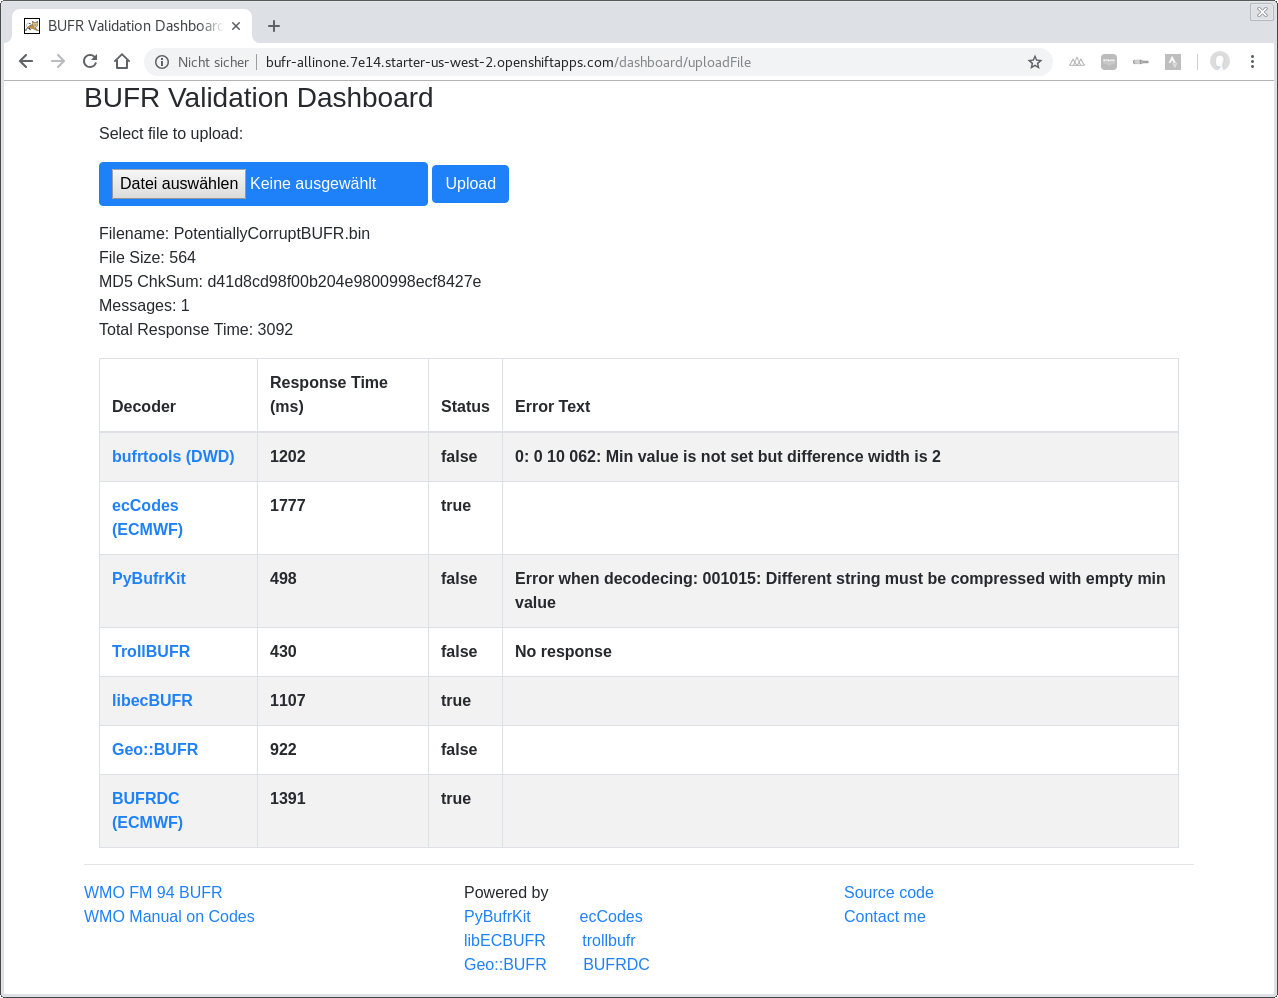
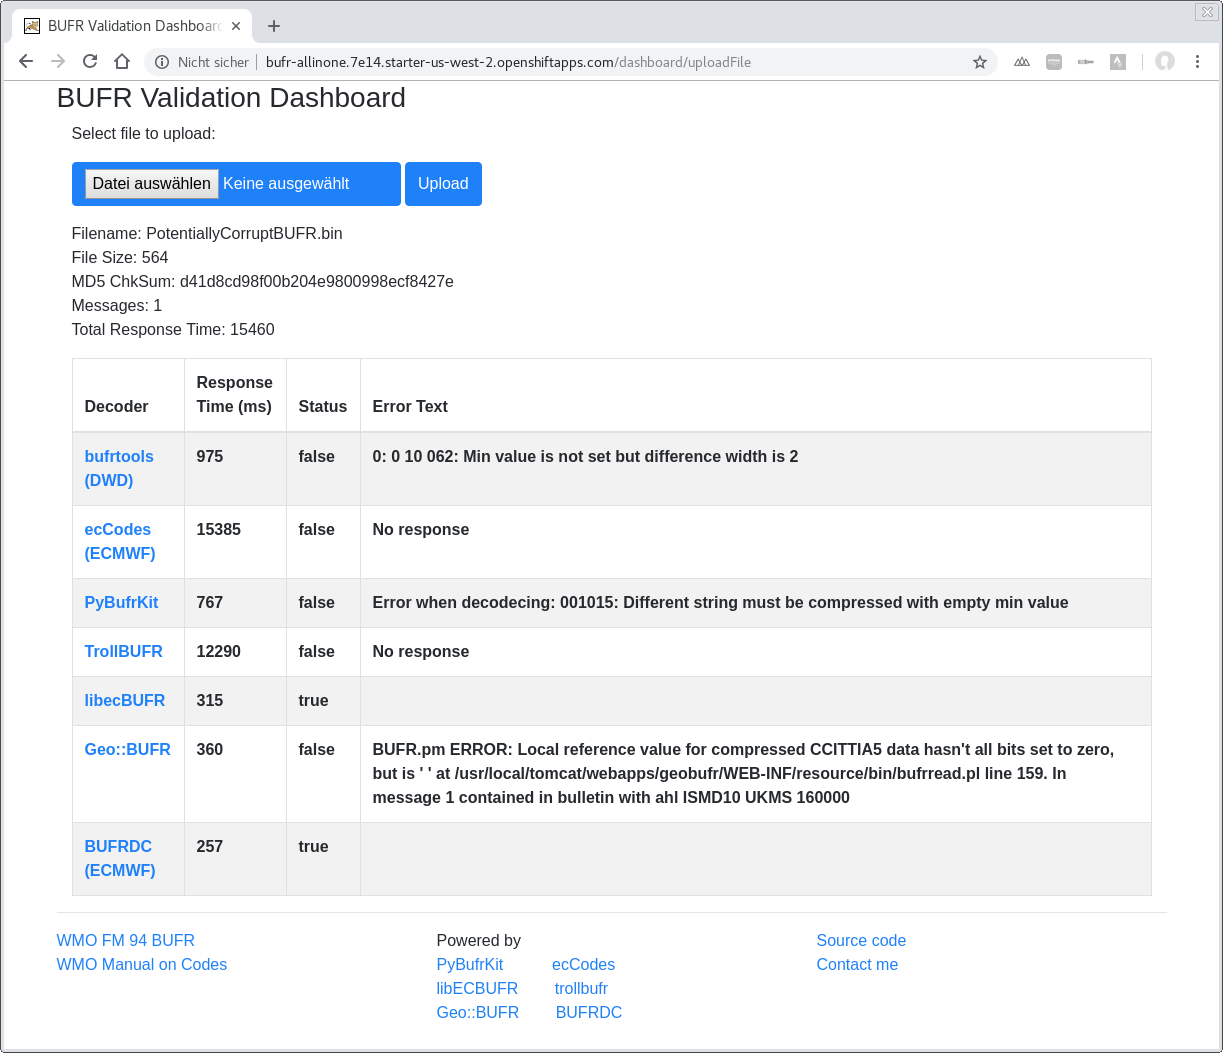
Timeout handling added

diff --git a/Servlet-Version/src/PostRequestWork.java b/Servlet-Version/src/PostRequestWork.java
@@ -20,6 +20,11 @@ import org.apache.http.impl.client.CloseableHttpClient;
 import org.apache.http.impl.client.HttpClients;
 import org.apache.http.util.EntityUtils;
 import org.apache.http.HttpHost;
+
+import org.apache.http.client.methods.HttpRequestBase;
+import org.apache.http.client.config.RequestConfig;
+import org.apache.http.client.config.RequestConfig.Builder;
+
 import org.apache.http.impl.conn.DefaultProxyRoutePlanner;
 
 
@@ -31,6 +36,7 @@ public class PostRequestWork implements Callable<String> {
     private File file;
     private final DefaultProxyRoutePlanner routePlanner;
     private long responseTime = -1;
+    public static final int TIMEOUT = 15 * 1000; // in ms
     
     public PostRequestWork(String url, String fileName, String fieldName, File file, DefaultProxyRoutePlanner routePlanner) {
 	this.url = url;
@@ -76,8 +82,19 @@ public class PostRequestWork implements Callable<String> {
 	
 	try {
 
+	    //	    HttpPost httppost = new HttpPost(getUrl());
+
 	    HttpPost httppost = new HttpPost(getUrl());
 
+	    RequestConfig.Builder requestConfig = RequestConfig.custom();
+	    requestConfig.setConnectTimeout(PostRequestWork.TIMEOUT);
+	    requestConfig.setConnectionRequestTimeout(PostRequestWork.TIMEOUT);
+	    requestConfig.setSocketTimeout(PostRequestWork.TIMEOUT);
+
+	    httppost.setConfig(requestConfig.build());
+
+
+	    
 	    FileBody bin = new FileBody(getFile());
 	    HttpEntity reqEntity = MultipartEntityBuilder.create()
 		.addPart(getFieldName(), bin)          

diff --git a/Servlet-Version/src/BufrValidatorDashboardServlet.java b/Servlet-Version/src/BufrValidatorDashboardServlet.java
@@ -402,7 +402,10 @@ public class BufrValidatorDashboardServlet extends HttpServlet {
 	String ecCodesResponse = (p_mapResponse.get(ECCODES)).getResponse();
 	responseTime = (p_mapResponse.get(ECCODES)).getResponseTime();
 	
-	if (ecCodesResponse == null || ecCodesResponse.length() == 0 || ecCodesResponse.contains("Error")) {
+	if (ecCodesResponse == null || ecCodesResponse.length() == 0 ) {
+	    result.addDecoderResult(ECCODES, false, NO_RESPONSE, responseTime);
+	    System.out.println("ecCodesResponse: " + ecCodesResponse);
+	} else if (ecCodesResponse.contains("Error")){
 	    result.addDecoderResult(ECCODES, false, "Error", responseTime);
 	    System.out.println("ecCodesResponse: " + ecCodesResponse);
 	} else {

diff --git a/Servlet-Version/src/GetRequestTask.java b/Servlet-Version/src/GetRequestTask.java
@@ -40,7 +40,11 @@ public class GetRequestTask implements IfcRequestTask {
 	try {
 	    return this.task.get();
 	} catch(Exception e) {
-	    throw new RuntimeException(e);
+	    System.out.println("Decoder: " + this.getDecoder() + " throws an error.");
+	    System.out.println("Ex: " + e.toString());
+	    return "";
+
+	    //throw new RuntimeException(e);
 	}
     }
 }

diff --git a/Servlet-Version/src/PostRequestTask.java b/Servlet-Version/src/PostRequestTask.java
@@ -40,7 +40,10 @@ public class PostRequestTask implements IfcRequestTask{
 	try {
 	    return this.task.get();
 	} catch(Exception e) {
-	    throw new RuntimeException(e);
+	    System.out.println("Decoder: " + this.getDecoder() + " throws an error.");
+	    System.out.println("Ex: " + e.toString());
+	    return "";
+	    //throw new RuntimeException(e);
 	}
     }
 }
